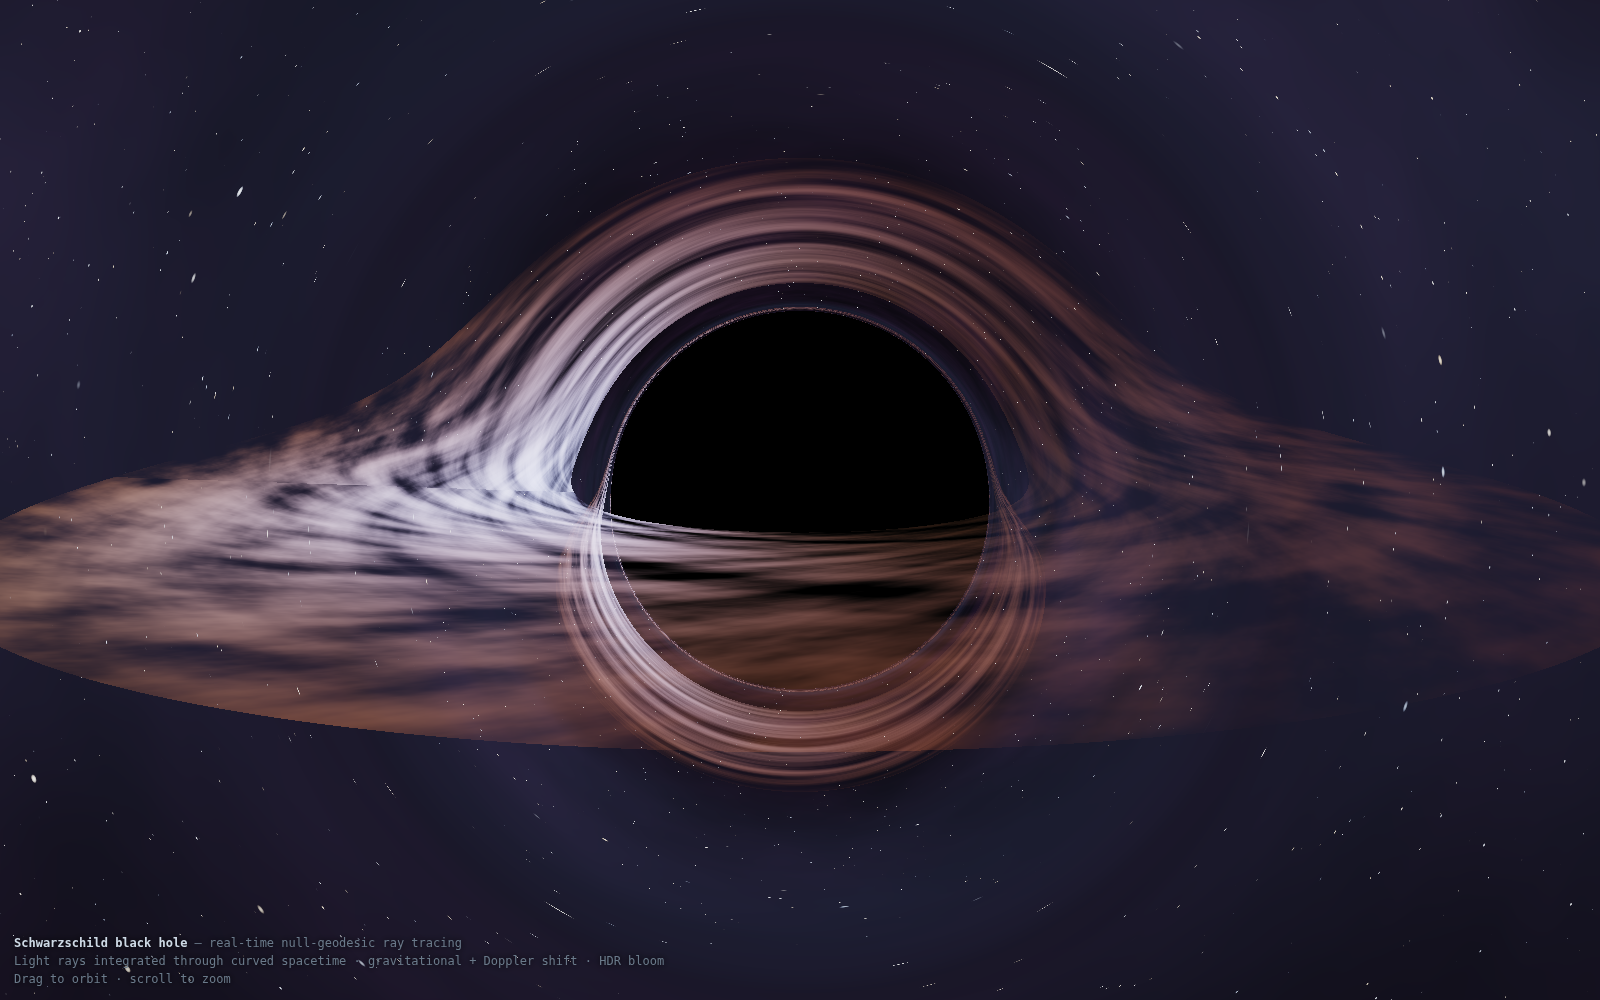
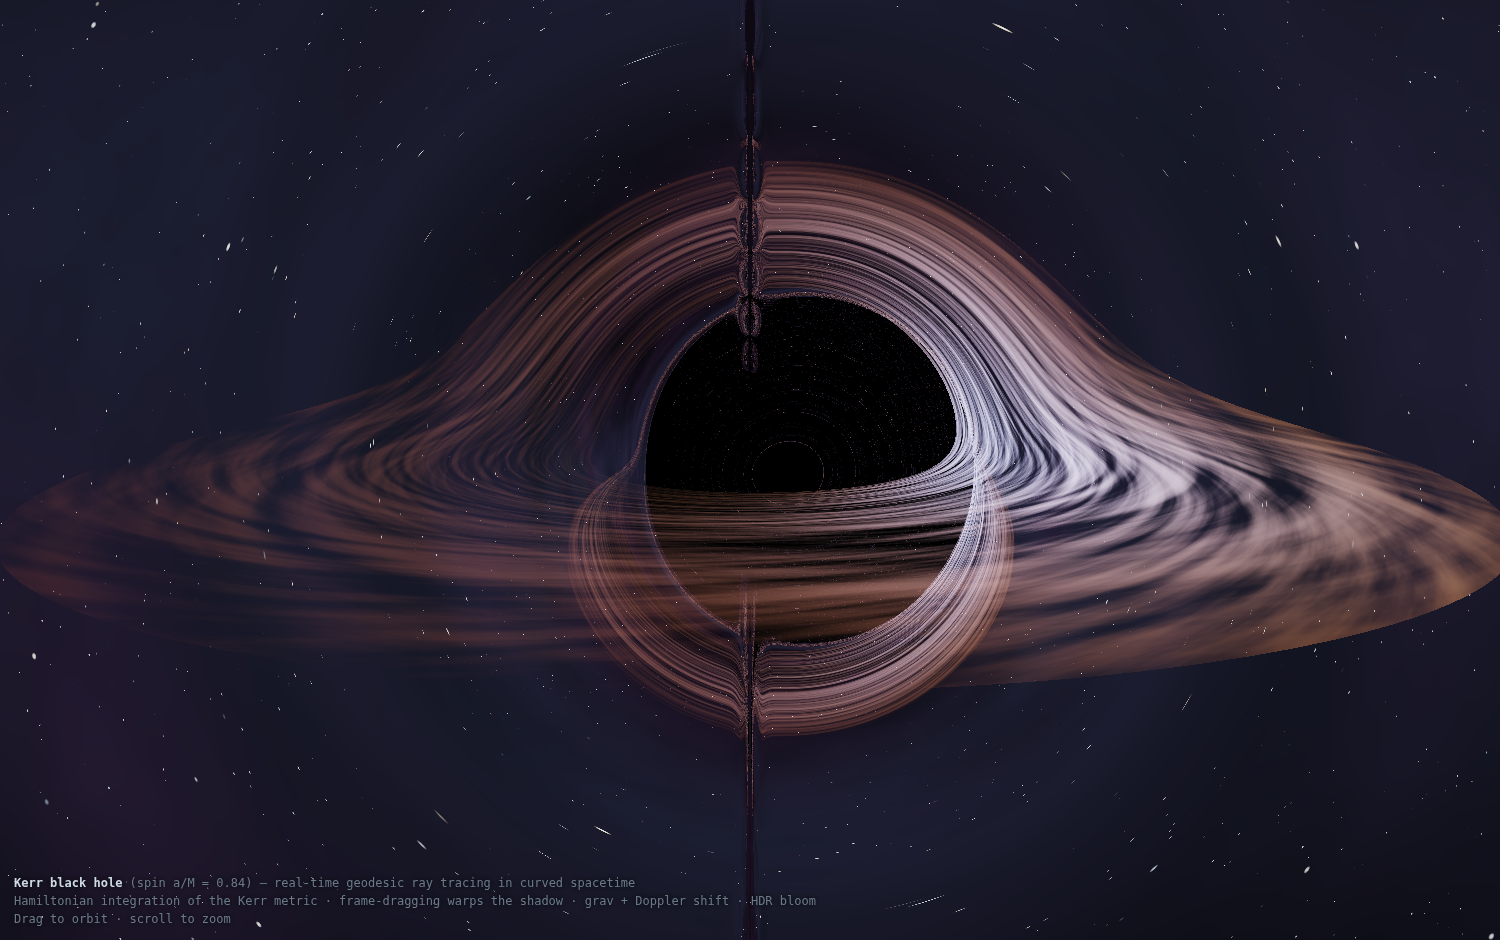
Implement Kerr (rotating) black hole with Hamiltonian geodesic integration

Changed region(s): [[0.0, 0.1543, 1.0, 0.8021], [0.0, 0.9255, 0.4293, 0.9872]]

diff --git a/black-hole.html b/black-hole.html
@@ -3,7 +3,7 @@
 <head>
 <meta charset="UTF-8" />
 <meta name="viewport" content="width=device-width, initial-scale=1.0" />
-<title>Black Hole — Geodesic Ray-Tracer</title>
+<title>Kerr Black Hole — Geodesic Ray-Tracer</title>
 <style>
   html, body { margin: 0; height: 100%; background: #000; overflow: hidden;
     font-family: ui-monospace, "SFMono-Regular", Menlo, Consolas, monospace; }
@@ -18,8 +18,8 @@
 <body>
 <canvas id="c"></canvas>
 <div id="hud">
-  <b>Schwarzschild black hole</b> — real-time null-geodesic ray tracing<br />
-  Light rays integrated through curved spacetime · gravitational + Doppler shift · HDR bloom<br />
+  <b>Kerr black hole</b> (spin a/M = 0.84) — real-time geodesic ray tracing in curved spacetime<br />
+  Hamiltonian integration of the Kerr metric · frame-dragging warps the shadow · grav + Doppler shift · HDR bloom<br />
   Drag to orbit · scroll to zoom
 </div>
 <div id="err"></div>
@@ -31,7 +31,7 @@ const vec2 verts[3] = vec2[3](vec2(-1.0,-1.0), vec2(3.0,-1.0), vec2(-1.0,3.0));
 void main(){ gl_Position = vec4(verts[gl_VertexID], 0.0, 1.0); }
 </script>
 
-<!-- ===================== SCENE FRAGMENT SHADER ===================== -->
+<!-- ===================== SCENE FRAGMENT SHADER (Kerr) ===================== -->
 <script id="fsScene" type="x-shader/x-fragment">#version 300 es
 precision highp float;
 out vec4 fragColor;
@@ -45,22 +45,26 @@ uniform vec3  uCamFwd;
 uniform float uTanHalfFov;
 
 /*
- * Units: Schwarzschild radius r_s = 1, horizon at the unit sphere, M = 0.5.
- * A photon obeys the null-geodesic equation, which in Cartesian form is the
- * central acceleration
+ * Rotating (Kerr) black hole, geometrized units with M = 0.5 so the
+ * Schwarzschild radius r_s = 2M = 1. Spin a = 0.42 (a/M = 0.84). The spin
+ * axis is world +Y; the accretion disk lies in the equatorial plane y = 0.
  *
- *     d^2x/dλ^2 = -3/2 · |L|^2 · x / r^5 ,     L = x × v
+ * Photons follow null geodesics of the Kerr metric. We integrate them with a
+ * HAMILTONIAN formulation in Boyer-Lindquist coordinates (r, theta, phi):
  *
- * carrying ALL the light bending (weak-field limit -> deflection 2 r_s / b).
- * We integrate it backwards from the camera with RK4. Output is LINEAR HDR;
- * tonemapping happens in the composite pass after bloom.
+ *     H = 1/2 g^{mu nu} p_mu p_nu = 0   (null)
+ *
+ * The energy E = -p_t and axial angular momentum L = p_phi are conserved
+ * (t and phi are cyclic), so we evolve only (r, theta, phi, p_r, p_theta) by
+ * Hamilton's equations, taking dH/dr and dH/dtheta by finite differences of
+ * the inverse metric. Frame-dragging emerges automatically from g^{t phi}.
  */
-#define RS        1.0
-#define HORIZON   1.0
-#define DISK_IN   2.4
-#define DISK_OUT  9.0
-#define ESCAPE    32.0
-#define MAX_STEPS 300
+#define MASS   0.5
+#define A_SPIN 0.42
+#define DISK_IN  1.9
+#define DISK_OUT 9.0
+#define ESCAPE   30.0
+#define MAX_STEPS 240
 
 float hash31(vec3 p){
   p = fract(p * 0.3183099 + 0.1); p *= 17.0;
@@ -96,79 +100,158 @@ vec3 starField(vec3 dir){
   return col + neb;
 }
 
-// emission of the accretion disk at a crossing point, with full relativistic
-// frequency shift (gravitational redshift * relativistic Doppler).
-vec3 diskEmission(vec3 cp, vec3 vel){
-  float cr  = length(cp.xz);
-  float rad = clamp((cr - DISK_IN) / (DISK_OUT - DISK_IN), 0.0, 1.0);
-  float ang = atan(cp.z, cp.x);
+// --- Kerr inverse metric (Boyer-Lindquist), spin axis = Y ------------------
+void metric(float r, float th, out float gtt, out float gtp, out float gpp,
+            out float grr, out float gthth){
+  float s2 = max(sin(th)*sin(th), 1e-4);
+  float c2 = 1.0 - s2;
+  float a  = A_SPIN;
+  float Sig = r*r + a*a*c2;
+  float Del = r*r - 2.0*MASS*r + a*a;
+  float r2a2 = r*r + a*a;
+  gtt   = -((r2a2*r2a2 - a*a*Del*s2) / (Sig*Del));
+  gtp   = -(2.0*MASS*r*a) / (Sig*Del);
+  gpp   = (Del - a*a*s2) / (Sig*Del*s2);
+  grr   = Del / Sig;
+  gthth = 1.0 / Sig;
+}
 
-  float orbit = uTime * (0.9 / pow(cr, 1.5));         // differential rotation
-  vec3  q = vec3(cos(ang+orbit), sin(ang+orbit), 0.0) * cr;
-  float turb = fbm(vec3(ang*2.0 - orbit*3.0, cr*0.9, 0.0))*0.6 + fbm(q*1.3 + 5.0)*0.6;
+float hamiltonian(float r, float th, float pr, float pth, float pt, float L){
+  float gtt,gtp,gpp,grr,gthth;
+  metric(r, th, gtt,gtp,gpp,grr,gthth);
+  return 0.5*(gtt*pt*pt + 2.0*gtp*pt*L + gpp*L*L + grr*pr*pr + gthth*pth*pth);
+}
+
+// Hamilton's equations: returns time-derivatives of (r,theta,phi,p_r,p_theta)
+void geoDeriv(float r,float th,float ph,float pr,float pth,float pt,float L,
+              out float dr,out float dth,out float dph,out float dpr,out float dpth){
+  float gtt,gtp,gpp,grr,gthth;
+  metric(r, th, gtt,gtp,gpp,grr,gthth);
+  dr  = grr*pr;
+  dth = gthth*pth;
+  dph = gtp*pt + gpp*L;
+  float e = 1e-3;
+  dpr  = -(hamiltonian(r+e,th,pr,pth,pt,L) - hamiltonian(r-e,th,pr,pth,pt,L)) / (2.0*e);
+  dpth = -(hamiltonian(r,th+e,pr,pth,pt,L) - hamiltonian(r,th-e,pr,pth,pt,L)) / (2.0*e);
+}
+
+void deriv(float y[5], float pt, float L, out float d[5]){
+  geoDeriv(y[0],y[1],y[2],y[3],y[4], pt, L, d[0],d[1],d[2],d[3],d[4]);
+}
+
+// accretion-disk emission at BL radius cr / azimuth ph, given photon direction
+vec3 diskEmission(float cr, float ph, vec3 pdir){
+  float rad = clamp((cr - DISK_IN) / (DISK_OUT - DISK_IN), 0.0, 1.0);
+  float orbit = uTime * (0.9 / pow(cr, 1.5));
+  vec3  q = vec3(cos(ph+orbit), sin(ph+orbit), 0.0) * cr;
+  float turb = fbm(vec3(ph*2.0 - orbit*3.0, cr*0.9, 0.0))*0.6 + fbm(q*1.3 + 5.0)*0.6;
   float density = smoothstep(0.35, 1.0, turb) * (0.6 + 0.7*(1.0-rad));
 
-  // rest-frame colour: hot blue-white inner -> orange outer (T ~ r^-3/4)
   float temp = pow(1.0 - rad, 0.75);
   vec3  base = mix(vec3(1.0,0.55,0.18), vec3(0.75,0.86,1.0), temp);
 
-  // --- relativistic frequency shift g = doppler * gravitational ---
-  vec3  vorb  = normalize(cross(vec3(0.0,1.0,0.0), cp));     // orbital direction
-  float beta  = clamp(sqrt(0.5 / max(cr,1.2)), 0.0, 0.85);   // Keplerian speed
+  // prograde orbital direction (with the spin) -> phi-hat in the equator
+  float sp = sin(ph), cp = cos(ph);
+  vec3  vorb  = vec3(-sp, 0.0, cp);
+  float beta  = clamp(sqrt(0.5 / max(cr,1.2)), 0.0, 0.88);
   float gamma = 1.0 / sqrt(1.0 - beta*beta);
-  vec3  toObs = normalize(-vel);                             // photon -> camera
+  vec3  toObs = -pdir;
   float doppler = 1.0 / (gamma * (1.0 - beta*dot(vorb,toObs)));
-  float grav    = sqrt(max(0.0001, 1.0 - RS/cr));            // gravitational redshift
-  float g = doppler * grav;                                   // total shift
+  float grav    = sqrt(max(1e-4, 1.0 - 1.0/cr));        // gravitational redshift
+  float g = doppler * grav;
 
-  // observed specific intensity boosts as g^4; colour shifts blue/red with g
   float boost = clamp(pow(g, 4.0), 0.0, 7.0);
   vec3  shift = mix(vec3(1.0,0.42,0.20), vec3(0.7,0.82,1.25), clamp((g-0.55)/0.9, 0.0, 1.0));
-
   float brightness = density * (0.5 + 1.1*(1.0-rad)) * boost;
   return base * shift * brightness * 0.32;
 }
 
-vec3 accel(vec3 pos, vec3 vel){
-  vec3 L = cross(pos, vel);
-  return -1.5 * dot(L,L) * pos / pow(length(pos), 5.0);
+// Cartesian unit-vector basis of BL coords at (th, ph), spin axis = Y
+void blBasis(float th, float ph, out vec3 er, out vec3 et, out vec3 ep){
+  float st=sin(th), ct=cos(th), sp=sin(ph), cp=cos(ph);
+  er = vec3(st*cp, ct, st*sp);
+  et = vec3(ct*cp, -st, ct*sp);
+  ep = vec3(-sp, 0.0, cp);
 }
 
 void main(){
   vec2 uv = (gl_FragCoord.xy*2.0 - uRes) / uRes.y;
   vec3 rd = normalize(uCamFwd + uCamRight*uv.x*uTanHalfFov + uCamUp*uv.y*uTanHalfFov);
 
-  vec3 pos = uCamPos, vel = rd;
-  vec3 diskCol = vec3(0.0); float diskA = 0.0; bool captured = false;
+  // --- camera Cartesian -> Boyer-Lindquist (oblate spheroidal), axis = Y ---
+  vec3  P = uCamPos;
+  float a = A_SPIN;
+  float rho2 = dot(P,P);
+  float r2 = 0.5*((rho2 - a*a) + sqrt((rho2 - a*a)*(rho2 - a*a) + 4.0*a*a*P.y*P.y));
+  float r0  = sqrt(r2);
+  float th0 = acos(clamp(P.y / r0, -1.0, 1.0));
+  float ph0 = atan(P.z, P.x);
+
+  vec3 er, et, ep; blBasis(th0, ph0, er, et, ep);
+  float pr0  = dot(rd, er);                 // flat-space momenta (camera is far)
+  float pth0 = r0 * dot(rd, et);
+  float pphi = r0 * sin(th0) * dot(rd, ep);
+  float pt   = -1.0;                          // E = 1 (affine scale)
+  float L    = pphi;
+
+  float y[5];
+  y[0]=r0; y[1]=th0; y[2]=ph0; y[3]=pr0; y[4]=pth0;
+
+  float rplus = MASS + sqrt(max(0.0, MASS*MASS - a*a));   // outer horizon
+  vec3  diskCol = vec3(0.0); float diskA = 0.0;
+  bool  captured = false;
+  float prevCos = cos(y[1]);
 
   for(int i=0;i<MAX_STEPS;i++){
-    float r = length(pos);
-    if(r < HORIZON){ captured = true; break; }
-    if(r > ESCAPE && dot(pos,vel) > 0.0) break;
+    float r   = y[0];
+    float Del = r*r - 2.0*MASS*r + a*a;
+    if(r < rplus*1.04 || Del < 0.03){ captured = true; break; }
+    if(r > ESCAPE) break;
 
-    float dt = 0.12 + 0.05*r;
-    vec3 a1 = accel(pos, vel);
-    vec3 a2 = accel(pos + 0.5*dt*vel,             vel + 0.5*dt*a1);
-    vec3 a3 = accel(pos + 0.5*dt*(vel+0.5*dt*a1), vel + 0.5*dt*a2);
-    vec3 a4 = accel(pos + dt*(vel+dt*a2),         vel + dt*a3);
-    vec3 nPos = pos + dt*(vel + dt/6.0*(a1+a2+a3));
-    vec3 nVel = vel + dt/6.0*(a1 + 2.0*a2 + 2.0*a3 + a4);
+    float h = 0.14 * (1.0 + 0.12*r);
 
-    if(nPos.y * pos.y < 0.0 && diskA < 0.99){
-      float t  = pos.y / (pos.y - nPos.y);
-      vec3  cp = mix(pos, nPos, t);
-      float cr = length(cp.xz);
-      if(cr > DISK_IN && cr < DISK_OUT){
-        vec3 em = diskEmission(cp, mix(vel, nVel, t));
-        float a = clamp(length(em)*0.6, 0.0, 1.0) * 0.85;
+    float k1[5],k2[5],k3[5],k4[5],tmp[5],yn[5];
+    deriv(y, pt, L, k1);
+    for(int j=0;j<5;j++) tmp[j] = y[j] + 0.5*h*k1[j];
+    deriv(tmp, pt, L, k2);
+    for(int j=0;j<5;j++) tmp[j] = y[j] + 0.5*h*k2[j];
+    deriv(tmp, pt, L, k3);
+    for(int j=0;j<5;j++) tmp[j] = y[j] + h*k3[j];
+    deriv(tmp, pt, L, k4);
+    for(int j=0;j<5;j++) yn[j] = y[j] + h/6.0*(k1[j]+2.0*k2[j]+2.0*k3[j]+k4[j]);
+    yn[1] = clamp(yn[1], 0.02, 3.12139);
+
+    // equatorial-plane (disk) crossing
+    float newCos = cos(yn[1]);
+    if(prevCos*newCos < 0.0 && diskA < 0.99){
+      float t  = prevCos / (prevCos - newCos);
+      float rc = mix(y[0], yn[0], t);
+      if(rc > DISK_IN && rc < DISK_OUT){
+        float phc = mix(y[2], yn[2], t);
+        float ic0=mix(y[0],yn[0],t), ic1=mix(y[1],yn[1],t),
+              ic3=mix(y[3],yn[3],t), ic4=mix(y[4],yn[4],t);
+        float d0,d1,d2,d3,d4;
+        geoDeriv(ic0,ic1,phc,ic3,ic4,pt,L,d0,d1,d2,d3,d4);
+        vec3 er2,et2,ep2; blBasis(ic1, phc, er2, et2, ep2);
+        vec3 pdir = normalize(d0*er2 + ic0*d1*et2 + ic0*sin(ic1)*d2*ep2);
+        vec3 em = diskEmission(rc, phc, pdir);
+        float al = clamp(length(em)*0.6, 0.0, 1.0) * 0.85;
         diskCol += (1.0 - diskA) * em;
-        diskA    = diskA + (1.0 - diskA) * a;
+        diskA    = diskA + (1.0 - diskA) * al;
       }
     }
-    pos = nPos; vel = nVel;
+    prevCos = newCos;
+    for(int j=0;j<5;j++) y[j] = yn[j];
   }
 
-  vec3 bg  = captured ? vec3(0.0) : starField(normalize(vel));
+  vec3 bg = vec3(0.0);
+  if(!captured){
+    float d0,d1,d2,d3,d4;
+    geoDeriv(y[0],y[1],y[2],y[3],y[4],pt,L,d0,d1,d2,d3,d4);
+    vec3 er3,et3,ep3; blBasis(y[1], y[2], er3, et3, ep3);
+    vec3 dir = normalize(d0*er3 + y[0]*d1*et3 + y[0]*sin(y[1])*d2*ep3);
+    bg = starField(dir);
+  }
   fragColor = vec4(diskCol + (1.0 - diskA) * bg, 1.0);   // linear HDR
 }
 </script>
@@ -178,10 +261,10 @@ void main(){
 precision highp float;
 out vec4 o;
 uniform sampler2D uTex;
-uniform vec2  uResOut;     // this target's resolution
-uniform vec2  uTexelIn;    // 1 / input texture size
-uniform vec2  uDir;        // (1,0) horizontal or (0,1) vertical
-uniform float uThresh;     // >0 = extract brightness above threshold first
+uniform vec2  uResOut;
+uniform vec2  uTexelIn;
+uniform vec2  uDir;
+uniform float uThresh;
 void main(){
   vec2 uv = gl_FragCoord.xy / uResOut;
   float w[5] = float[5](0.227027, 0.194594, 0.121622, 0.054054, 0.016216);
@@ -205,11 +288,10 @@ uniform vec2 uResOut;
 void main(){
   vec2 uv = gl_FragCoord.xy / uResOut;
   vec3 c = texture(uScene, uv).rgb + texture(uBloom, uv).rgb * 0.9;
-  c *= 1.25;                                   // exposure
-  c = (c*(2.51*c+0.03)) / (c*(2.43*c+0.59)+0.14);   // ACES filmic
-  // subtle vignette
+  c *= 1.25;                                       // exposure
+  c = (c*(2.51*c+0.03)) / (c*(2.43*c+0.59)+0.14);  // ACES filmic
   vec2 d = uv - 0.5;
-  c *= 1.0 - 0.35*dot(d,d);
+  c *= 1.0 - 0.35*dot(d,d);                         // vignette
   o = vec4(pow(clamp(c,0.0,1.0), vec3(0.4545)), 1.0);
 }
 </script>
@@ -248,7 +330,6 @@ const Uc = loc(progComp,  ["uScene","uBloom","uResOut"]);
 const vao = gl.createVertexArray();
 gl.bindVertexArray(vao);
 
-// ---- render targets ----
 function makeTarget(w,h){
   const tex = gl.createTexture();
   gl.bindTexture(gl.TEXTURE_2D, tex);
@@ -270,12 +351,10 @@ function allocTargets(w,h){
   bloomB = makeTarget(bw, bh);
 }
 
-// ---- vec3 helpers ----
 const sub  =(a,b)=>[a[0]-b[0],a[1]-b[1],a[2]-b[2]];
 const norm =(a)=>{const l=Math.hypot(a[0],a[1],a[2])||1;return[a[0]/l,a[1]/l,a[2]/l];};
 const cross=(a,b)=>[a[1]*b[2]-a[2]*b[1],a[2]*b[0]-a[0]*b[2],a[0]*b[1]-a[1]*b[0]];
 
-// ---- camera / interaction ----
 let yaw=0.5, pitch=0.16, dist=15.0, autoSpin=true, dragging=false, lastX=0, lastY=0;
 canvas.addEventListener("mousedown", e=>{dragging=true; autoSpin=false; lastX=e.clientX; lastY=e.clientY;});
 window.addEventListener("mouseup", ()=>dragging=false);
@@ -299,7 +378,6 @@ function resize(){
   if(w!==curW || h!==curH){ curW=w; curH=h; allocTargets(w,h); }
 }
 window.addEventListener("resize", resize);
-
 function drawFull(){ gl.drawArrays(gl.TRIANGLES,0,3); }
 
 function frame(ms){
@@ -316,7 +394,7 @@ function frame(ms){
   const right = norm(cross(fwd,[0,1,0]));
   const up    = cross(right,fwd);
 
-  // --- pass 1: scene -> HDR float ---
+  // pass 1: Kerr scene -> HDR
   gl.bindFramebuffer(gl.FRAMEBUFFER, scene.fbo);
   gl.viewport(0,0,scene.w,scene.h);
   gl.useProgram(progScene);
@@ -327,7 +405,7 @@ function frame(ms){
   gl.uniform1f(Us.uTanHalfFov, Math.tan(0.5*50.0*Math.PI/180.0));
   drawFull();
 
-  // --- pass 2: bright extract + horizontal blur -> bloomA (half res) ---
+  // pass 2: bright extract + horizontal blur
   gl.useProgram(progBlur);
   gl.bindFramebuffer(gl.FRAMEBUFFER, bloomA.fbo);
   gl.viewport(0,0,bloomA.w,bloomA.h);
@@ -335,21 +413,19 @@ function frame(ms){
   gl.uniform1i(Ub.uTex,0);
   gl.uniform2f(Ub.uResOut, bloomA.w, bloomA.h);
   gl.uniform2f(Ub.uTexelIn, 1/scene.w, 1/scene.h);
-  gl.uniform2f(Ub.uDir, 1.0, 0.0);
-  gl.uniform1f(Ub.uThresh, 1.0);
+  gl.uniform2f(Ub.uDir, 1.0, 0.0); gl.uniform1f(Ub.uThresh, 1.0);
   drawFull();
 
-  // --- pass 3: vertical blur -> bloomB ---
+  // pass 3: vertical blur
   gl.bindFramebuffer(gl.FRAMEBUFFER, bloomB.fbo);
   gl.viewport(0,0,bloomB.w,bloomB.h);
   gl.bindTexture(gl.TEXTURE_2D, bloomA.tex);
   gl.uniform2f(Ub.uResOut, bloomB.w, bloomB.h);
   gl.uniform2f(Ub.uTexelIn, 1/bloomA.w, 1/bloomA.h);
-  gl.uniform2f(Ub.uDir, 0.0, 1.0);
-  gl.uniform1f(Ub.uThresh, 0.0);
+  gl.uniform2f(Ub.uDir, 0.0, 1.0); gl.uniform1f(Ub.uThresh, 0.0);
   drawFull();
 
-  // --- pass 4: second blur iteration (wider glow) ---
+  // pass 4: second blur iteration (wider glow)
   gl.bindFramebuffer(gl.FRAMEBUFFER, bloomA.fbo);
   gl.bindTexture(gl.TEXTURE_2D, bloomB.tex);
   gl.uniform2f(Ub.uTexelIn, 1/bloomB.w, 1/bloomB.h);
@@ -362,7 +438,7 @@ function frame(ms){
   gl.uniform2f(Ub.uDir, 0.0, 1.0);
   drawFull();
 
-  // --- pass 5: composite to screen ---
+  // pass 5: composite
   gl.bindFramebuffer(gl.FRAMEBUFFER, null);
   gl.viewport(0,0,canvas.width,canvas.height);
   gl.useProgram(progComp);
